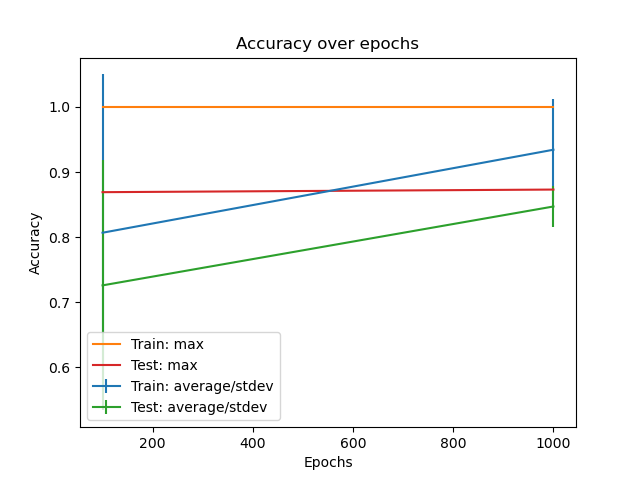
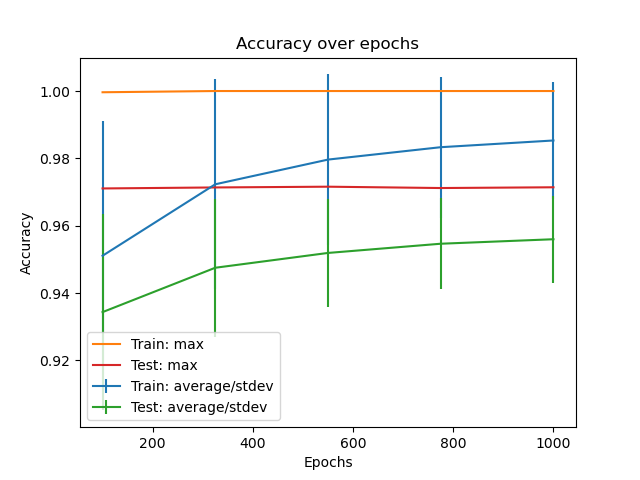
mlp refactor best model parameters

diff --git a/mlp.py b/mlp.py
@@ -90,11 +90,26 @@ def evaluate(model):
 
 
 def get_best_model():
-    # return MLPClassifier(activation="logistic", learning_rate="constant", solver="sgd", hidden_layer_sizes=, max_iter=, learning_rate_init=)
-    pass
+    params = {
+        'activation': 'logistic',
+        'hidden_layer_sizes': 100,
+        'learning_rate': 'constant',
+        'learning_rate_init': 0.1,
+        'max_iter': 550,
+        'solver': 'sgd'
+    }
+    # Best score: 0.971592039800995
+    model = MLPClassifier(*params)
+    print("Importing train set...")
+    x_train, y_train = read_png(paths["png-train"])
+    print("Train set size:", len(x_train))
+    print("Training...")
+    model.fit(x_train, y_train)
+    return model
 
 
 if __name__ == '__main__':
     filterwarnings('ignore')
-    model = find_best_model()
-    # evaluate(model)
+    # model = find_best_model()
+    model = get_best_model()
+    evaluate(model)
